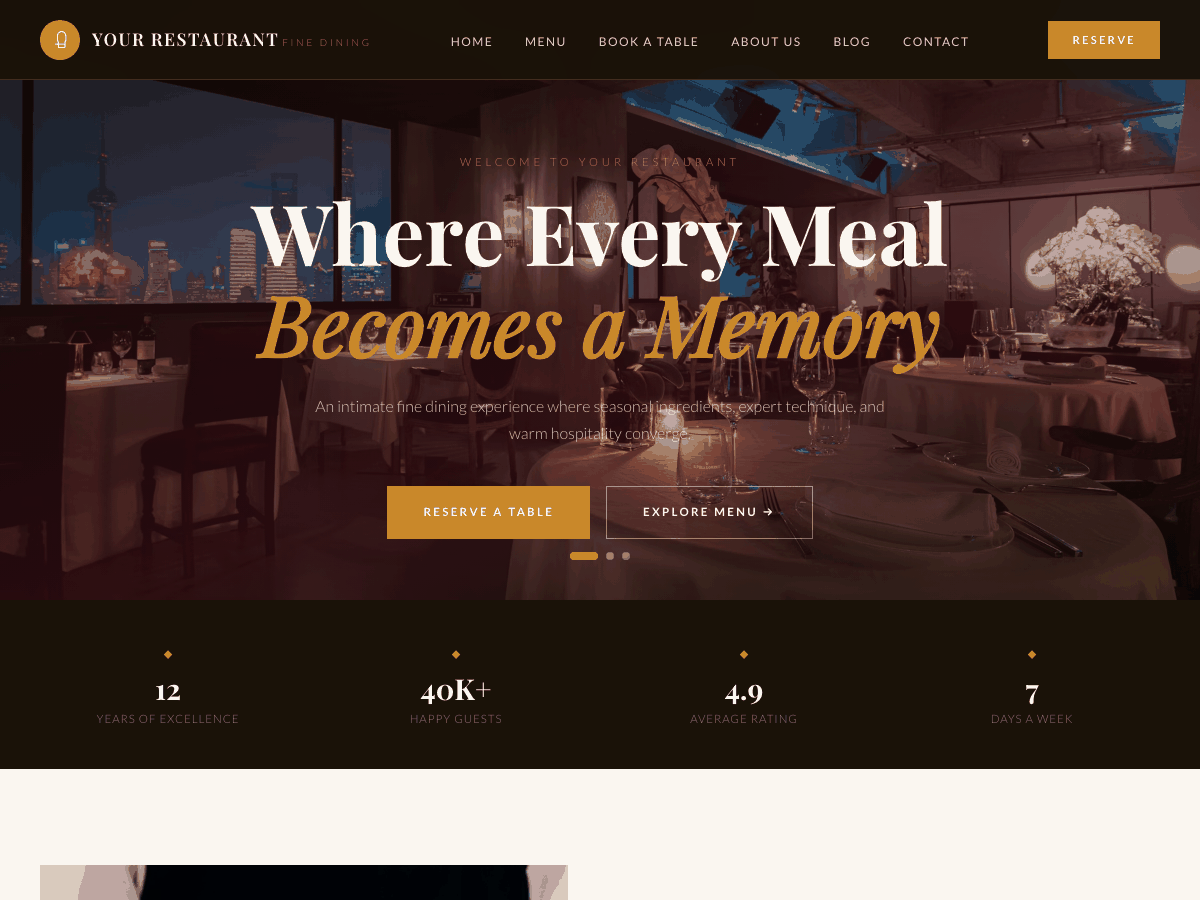
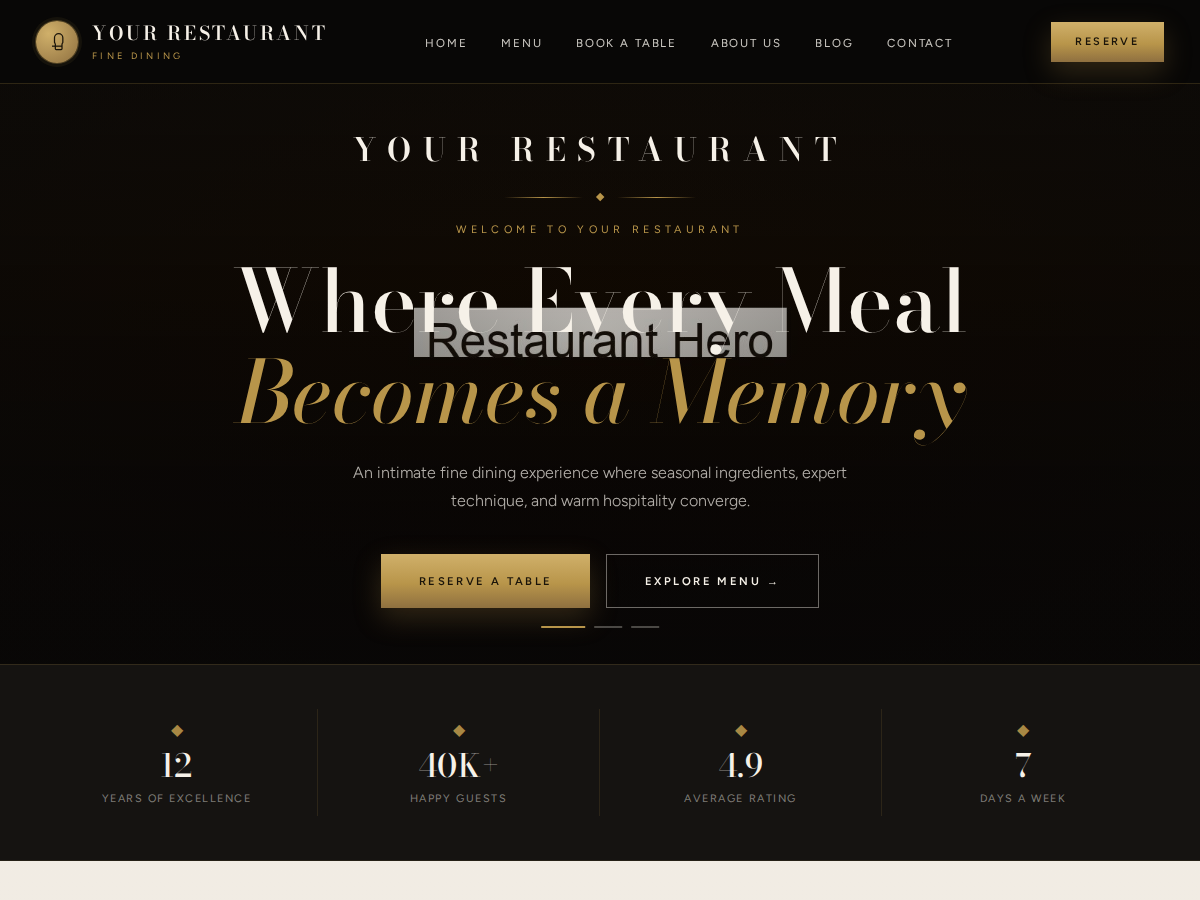
Polish Atelier Noir hero brand and refresh screenshots
Enlarge the hero brand treatment, lighten the cinematic overlay for
photography, and regenerate theme screenshot assets from the preview.

diff --git a/assets/css/main.css b/assets/css/main.css
@@ -404,8 +404,8 @@ ul { margin: 0; padding: 0; list-style: none; }
   position: absolute;
   inset: 0;
   background:
-    radial-gradient(ellipse at center, rgba(10, 9, 8, 0.22) 0%, rgba(10, 9, 8, 0.74) 78%),
-    linear-gradient(180deg, rgba(6, 5, 4, 0.62) 0%, rgba(6, 5, 4, 0.18) 42%, rgba(6, 5, 4, 0.82) 100%);
+    radial-gradient(ellipse at center, rgba(10, 9, 8, 0.12) 0%, rgba(10, 9, 8, 0.62) 78%),
+    linear-gradient(180deg, rgba(6, 5, 4, 0.48) 0%, rgba(6, 5, 4, 0.12) 42%, rgba(6, 5, 4, 0.72) 100%);
   pointer-events: none;
 }
 .yr-hero__overlay::after {
@@ -425,11 +425,11 @@ ul { margin: 0; padding: 0; list-style: none; }
   max-width: 54rem;
 }
 .yr-hero__brand {
-  margin: 0 0 1.35rem;
+  margin: 0 0 1.1rem;
   font-family: var(--yr-serif);
-  font-size: clamp(0.95rem, 1.6vw, 1.15rem);
-  font-weight: 500;
-  letter-spacing: 0.42em;
+  font-size: clamp(1.35rem, 2.8vw, 2rem);
+  font-weight: 600;
+  letter-spacing: 0.36em;
   text-transform: uppercase;
   color: var(--yr-primary-fg);
   animation: yr-fade-up 1s var(--yr-ease) both;

diff --git a/screenshot-preview.html b/screenshot-preview.html
@@ -56,8 +56,10 @@
 
 <main class="yr-main">
 <section class="yr-hero">
-  <div class="yr-hero__slide is-active" style="background-image:url('assets/images/placeholders/hero-1.jpg')"></div>
-  <div class="yr-hero__overlay"></div>
+  <div class="yr-hero__slide is-active">
+    <img class="yr-hero__image" src="assets/images/placeholders/hero-1.jpg" alt="" width="1800" height="900" />
+  </div>
+  <div class="yr-hero__overlay" aria-hidden="true"></div>
   <div class="yr-hero__dots">
     <button type="button" class="yr-hero__dot is-active"></button>
     <button type="button" class="yr-hero__dot"></button>
